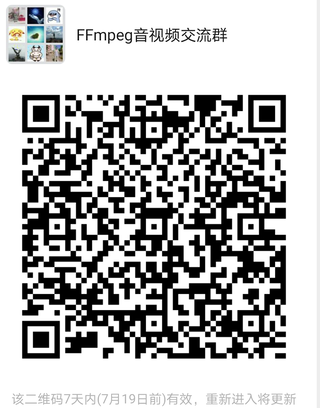
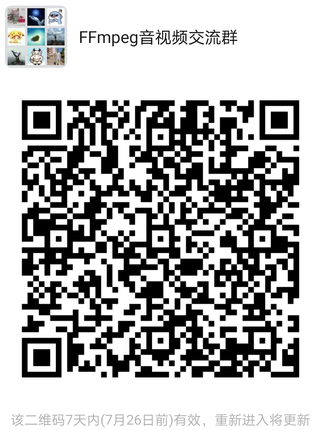
update learning group

diff --git a/app/src/main/cpp/ffmpeg_pusher.cpp b/app/src/main/cpp/ffmpeg_pusher.cpp
@@ -121,9 +121,9 @@ PUSHER_FUNC(jint, pushStream, jstring filePath, jstring liveUrl) {
 
         //pts to dts
         packet.pts = av_rescale_q_rnd(packet.pts, in_stream->time_base, out_stream->time_base,
-                                      AV_ROUND_NEAR_INF | AV_ROUND_PASS_MINMAX);
+                                      (AVRounding) (AV_ROUND_NEAR_INF | AV_ROUND_PASS_MINMAX));
         packet.dts = av_rescale_q_rnd(packet.dts, in_stream->time_base, out_stream->time_base,
-                                      AV_ROUND_NEAR_INF | AV_ROUND_PASS_MINMAX);
+                                      (AVRounding) (AV_ROUND_NEAR_INF | AV_ROUND_PASS_MINMAX));
         packet.duration = av_rescale_q(packet.duration, in_stream->time_base,
                                        out_stream->time_base);
         packet.pos = -1;
